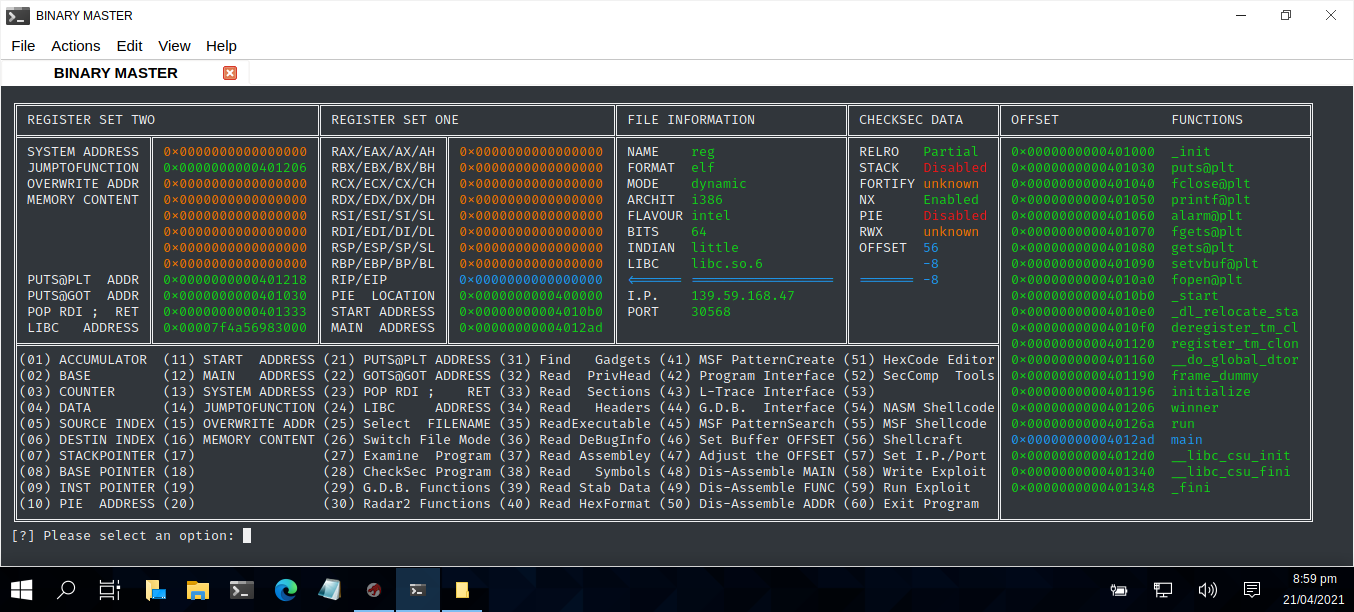
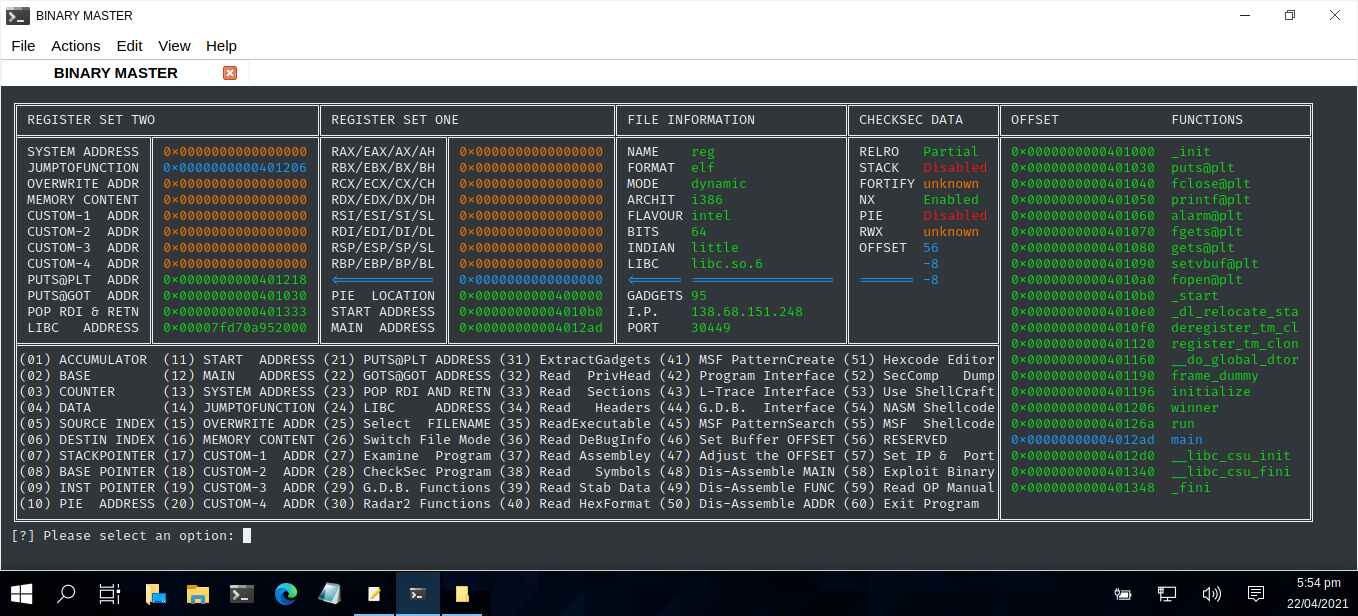
Full Stack

diff --git a/BinaryMaster.py b/BinaryMaster.py
@@ -199,8 +199,14 @@ def dispMenu():
       if REG2[x] == "0x0000000000000000":
          print(colored(REG2[x],colour7), end=' ')
       else:
-         print(colored(REG2[x],colour6), end=' ')      
-      print('\u2551' + HED2[x][:15] + '\u2551', end=' ')
+         if (x in range(1,8)) and (CSEC[6][:1] != "0"):
+            print(colored(REG2[x],colour3), end=' ')            
+         else:
+            print(colored(REG2[x],colour6), end=' ')   
+      if "<============" in HED2[x]:
+         print('\u2551' + colored(HED2[x][:15], colour3) + '\u2551', end=' ')
+      else:
+         print('\u2551' + HED2[x][:15] + '\u2551', end=' ')
       if (CSEC[6][:1] != "0") and (x == 8):
          print(colored(REG1[x],colour3), end=' ')
       elif REG1[x] == "0x0000000000000000":
@@ -264,7 +270,7 @@ def options():
       print(colored(FUNC[14],colour6), end=' ')     
    print('\u2551')
 # -- -- -- -- -- -- -- -- -- -- -- -- -- -- -- -- -- -- -- -- -- --- -- -- --- -  
-   print('\u2551' + "(03) COUNTER      (13) SYSTEM ADDRESS (23) POP RDI ;    RET (33) Read  Sections (43) L-Trace Interface (53) Use ShellCraft" + '\u2551',end=' ')
+   print('\u2551' + "(03) COUNTER      (13) SYSTEM ADDRESS (23) POP RDI AND RETN (33) Read  Sections (43) L-Trace Interface (53) Use ShellCraft" + '\u2551',end=' ')
    if "main" in FUNC[15]:
       print(colored(FUNC[15],colour3), end=' ')
    else:
@@ -292,28 +298,28 @@ def options():
       print(colored(FUNC[18],colour6), end=' ')     
    print('\u2551')
 # -- -- -- -- -- -- -- -- -- -- -- -- -- -- -- -- -- -- -- -- -- --- -- -- --- -  
-   print('\u2551' + "(07) STACKPOINTER (17)                (27) Examine  Program (37) Read Assembley (47) Adjust the OFFSET (57) Set IP &  Port" + '\u2551',end=' ')
+   print('\u2551' + "(07) STACKPOINTER (17) CUSTOM-1  ADDR (27) Examine  Program (37) Read Assembley (47) Adjust the OFFSET (57) Set IP &  Port" + '\u2551',end=' ')
    if "main" in FUNC[19]:
       print(colored(FUNC[19],colour3), end=' ')
    else:
       print(colored(FUNC[19],colour6), end=' ')     
    print('\u2551')
 # -- -- -- -- -- -- -- -- -- -- -- -- -- -- -- -- -- -- -- -- -- --- -- -- --- -  
-   print('\u2551' + "(08) BASE POINTER (18)                (28) CheckSec Program (38) Read   Symbols (48) Dis-Assemble MAIN (58) Exploit Binary" + '\u2551',end=' ')
+   print('\u2551' + "(08) BASE POINTER (18) CUSTOM-2  ADDR (28) CheckSec Program (38) Read   Symbols (48) Dis-Assemble MAIN (58) Exploit Binary" + '\u2551',end=' ')
    if "main" in FUNC[20]:
       print(colored(FUNC[20],colour3), end=' ')
    else:
       print(colored(FUNC[20],colour6), end=' ')     
    print('\u2551')
 # -- -- -- -- -- -- -- -- -- -- -- -- -- -- -- -- -- -- -- -- -- --- -- -- --- -  
-   print('\u2551' + "(09) INST POINTER (19)                (29) G.D.B. Functions (39) Read Stab Data (49) Dis-Assemble FUNC (59) Read OP Manual" + '\u2551',end=' ')
+   print('\u2551' + "(09) INST POINTER (19) CUSTOM-3  ADDR (29) G.D.B. Functions (39) Read Stab Data (49) Dis-Assemble FUNC (59) Read OP Manual" + '\u2551',end=' ')
    if "main" in FUNC[21]:
       print(colored(FUNC[21],colour3), end=' ')
    else:
       print(colored(FUNC[21],colour6), end=' ')     
    print('\u2551')
 # -- -- -- -- -- -- -- -- -- -- -- -- -- -- -- -- -- -- -- -- -- --- -- -- --- -     
-   print('\u2551' + "(10) PIE  ADDRESS (20)                (30) Radar2 Functions (40) Read HexFormat (50) Dis-Assemble ADDR (60) Exit Program  " + '\u2551',end=' ')
+   print('\u2551' + "(10) PIE  ADDRESS (20) CUSTOM-4  ADDR (30) Radar2 Functions (40) Read HexFormat (50) Dis-Assemble ADDR (60) Exit Program  " + '\u2551',end=' ')
    if FUNC[23] != "":
       print(colored(FUNC[22],colour0), end=' ');print('\u2551')    
    elif "main" in FUNC[22]:
@@ -436,13 +442,13 @@ HED1[0]  = spacePadding(" SYSTEM ADDRESS ", COL1+2)
 HED1[1]  = spacePadding(" JUMPTOFUNCTION ", COL1+2)   
 HED1[2]  = spacePadding(" OVERWRITE ADDR ", COL1+2)   
 HED1[3]  = spacePadding(" MEMORY CONTENT ", COL1+2)   
-HED1[4]  = spacePadding("                ", COL1+2)   
-HED1[5]  = spacePadding("                ", COL1+2)   
-HED1[6]  = spacePadding("                ", COL1+2)   
-HED1[7]  = spacePadding("                ", COL1+2)   
+HED1[4]  = spacePadding(" CUSTOM-1  ADDR ", COL1+2)   
+HED1[5]  = spacePadding(" CUSTOM-2  ADDR ", COL1+2)   
+HED1[6]  = spacePadding(" CUSTOM-3  ADDR ", COL1+2)   
+HED1[7]  = spacePadding(" CUSTOM-4  ADDR ", COL1+2)   
 HED1[8]  = spacePadding(" PUTS@PLT  ADDR ", COL1+2)   
 HED1[9]  = spacePadding(" PUTS@GOT  ADDR ", COL1+2)
-HED1[10] = spacePadding(" POP RDI ;  RET ", COL1+2)
+HED1[10] = spacePadding(" POP RDI & RETN ", COL1+2)
 HED1[11] = spacePadding(" LIBC   ADDRESS ", COL1+2)   
    
 HED2[0]  = spacePadding(" RAX/EAX/AX/AH  ", COL1+2)
@@ -1766,6 +1772,11 @@ while True:
             CSEC[6] = spacePadding(CSEC[6],COL1)
          else:
             CSEC[6] = BAK
+         value = int(CSEC[6].rstrip(" "))
+         if value == 0:
+            HED2[8] = spacePadding(" RIP/EIP", COL1)
+         else:
+            HED2[8] = spacePadding(" <============", COL1)
       prompt() 
       
 # ------------------------------------------------------------------------------------- 

diff --git a/README.md b/README.md
@@ -6,7 +6,7 @@
 
 **INSTALLATION INSTRUCTIONS**
 
-        BIN MASTER (BETA Version 2.0)
+        BIN MASTER (BETA Version 3.0)
         -------------------------------------------------------
         git clone https://github.com/BroadbentT/BIN-MASTER.git 
 <br>
@@ -24,7 +24,7 @@ USAGE : python3 BinaryMaster.py
 
 | LANGUAGE  | FILENAME        | MD5 Hash                         | DESCRIPTION    | VERSION    |
 |------     |------           | -------                          | ------         | ----       |
-| python3   | BinaryMaster.py | 8b33c50e8dfa1b7b9b1f9c861ea8525c | Command Centre | Full Stack |
+| python3   | BinaryMaster.py | 2dbe14df4fafb1d357ed752a44e979de | Command Centre | Full Stack |
 
 	[x] Database not currently linked - expected on version alpha.
 
